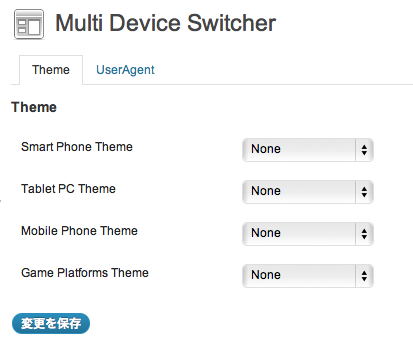
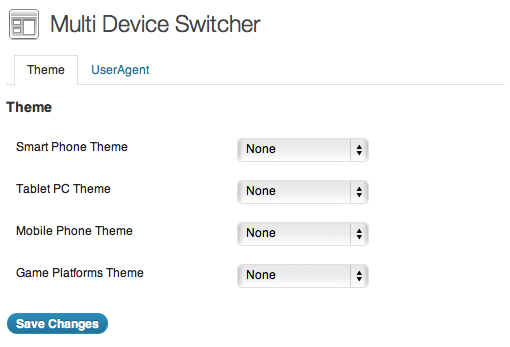
fix reset button
git-svn-id: https://plugins.svn.wordpress.org/multi-device-switcher/trunk@533327 b8457f37-d9ea-0310-8a92-e5e31aec5664

diff --git a/multi-device-switcher.php b/multi-device-switcher.php
@@ -3,7 +3,7 @@
 Plugin Name: Multi Device Switcher
 Plugin URI: https://github.com/thingsym/multi-device-switcher
 Description: This WordPress plugin allows you to set a separate theme for device (Smart Phone, Tablet PC, Mobile Phone, Game).
-Version: 1.0.2
+Version: 1.0.3
 Author: thingsym
 Author URI: http://www.thingslabo.com/
 License: GPL2
@@ -460,7 +460,7 @@ function multi_device_switcher_render_page() {
 					<td><textarea name="multi_device_switcher_options[userAgent_game]" rows="4" cols="42"><?php echo $options['userAgent_game']; ?></textarea></td>
 				</tr>
 				<tr><th></th>
-					<td><input type="submit" name="multi_device_switcher_options[restore_UserAgent]" value="<?php _e( 'Reset Settings to Default UserAgent', 'multi-device-switcher' ); ?>"></td>
+					<td><p class="submit"><input type="submit" name="multi_device_switcher_options[restore_UserAgent]" value="<?php _e( 'Reset Settings to Default UserAgent', 'multi-device-switcher' ); ?>"></p></td>
 				</tr>
 			</table>
 			</fieldset>

diff --git a/readme.md b/readme.md
@@ -15,6 +15,9 @@ This plugin detects if your site is being viewed by UserAgent and switches to se
 
 ## Changelog
 
+* Version 1.0.3
+	* updated: update screenshots
+	* fixed: fix reset button
 * Version 1.0.2
 	* added: add file uninstall.php
 	* fixed: split admin_enqueue_scripts() into two functions
